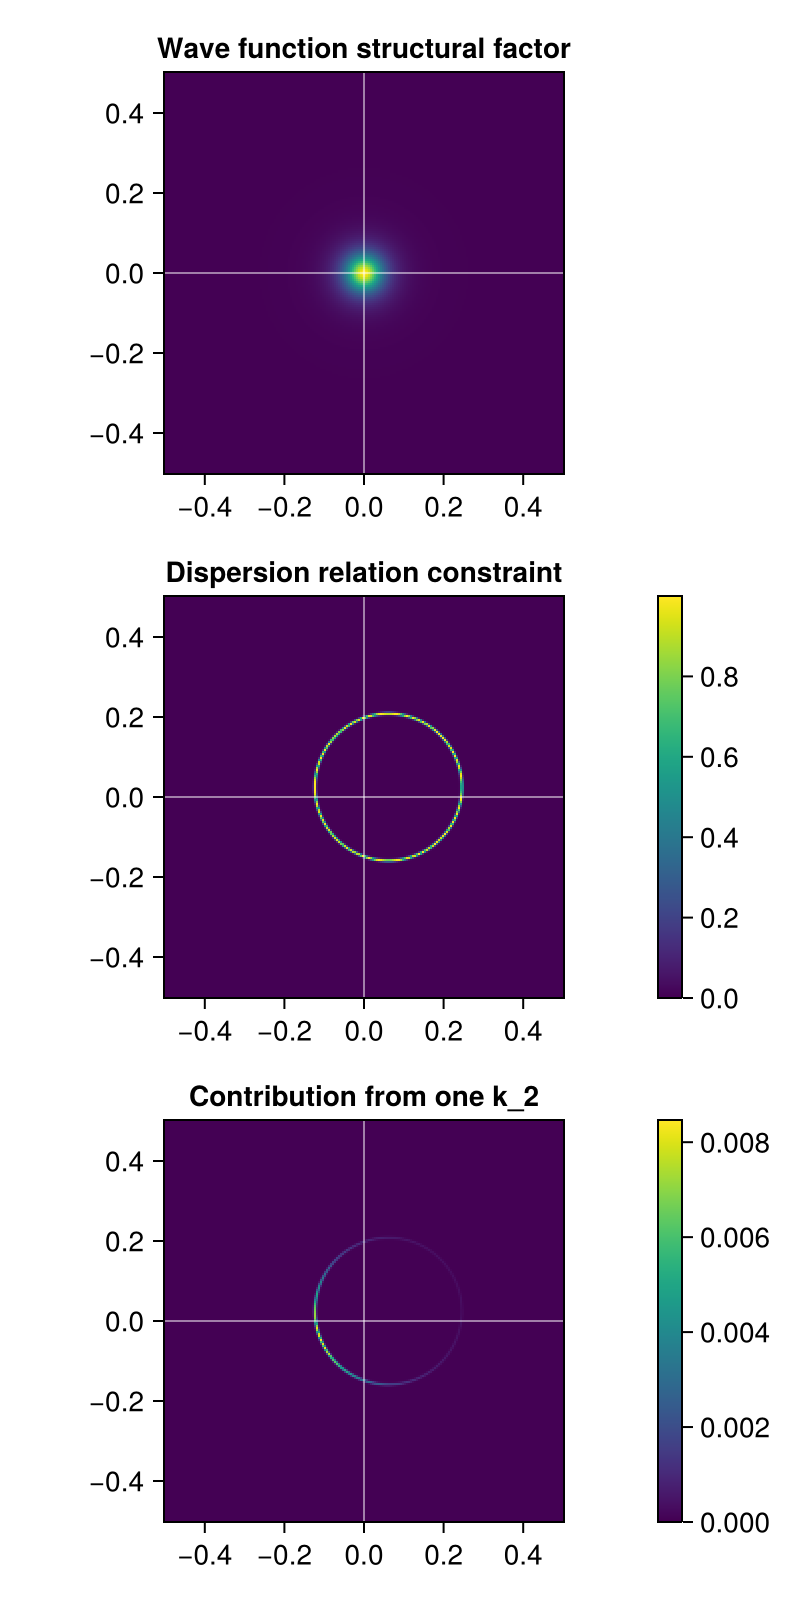
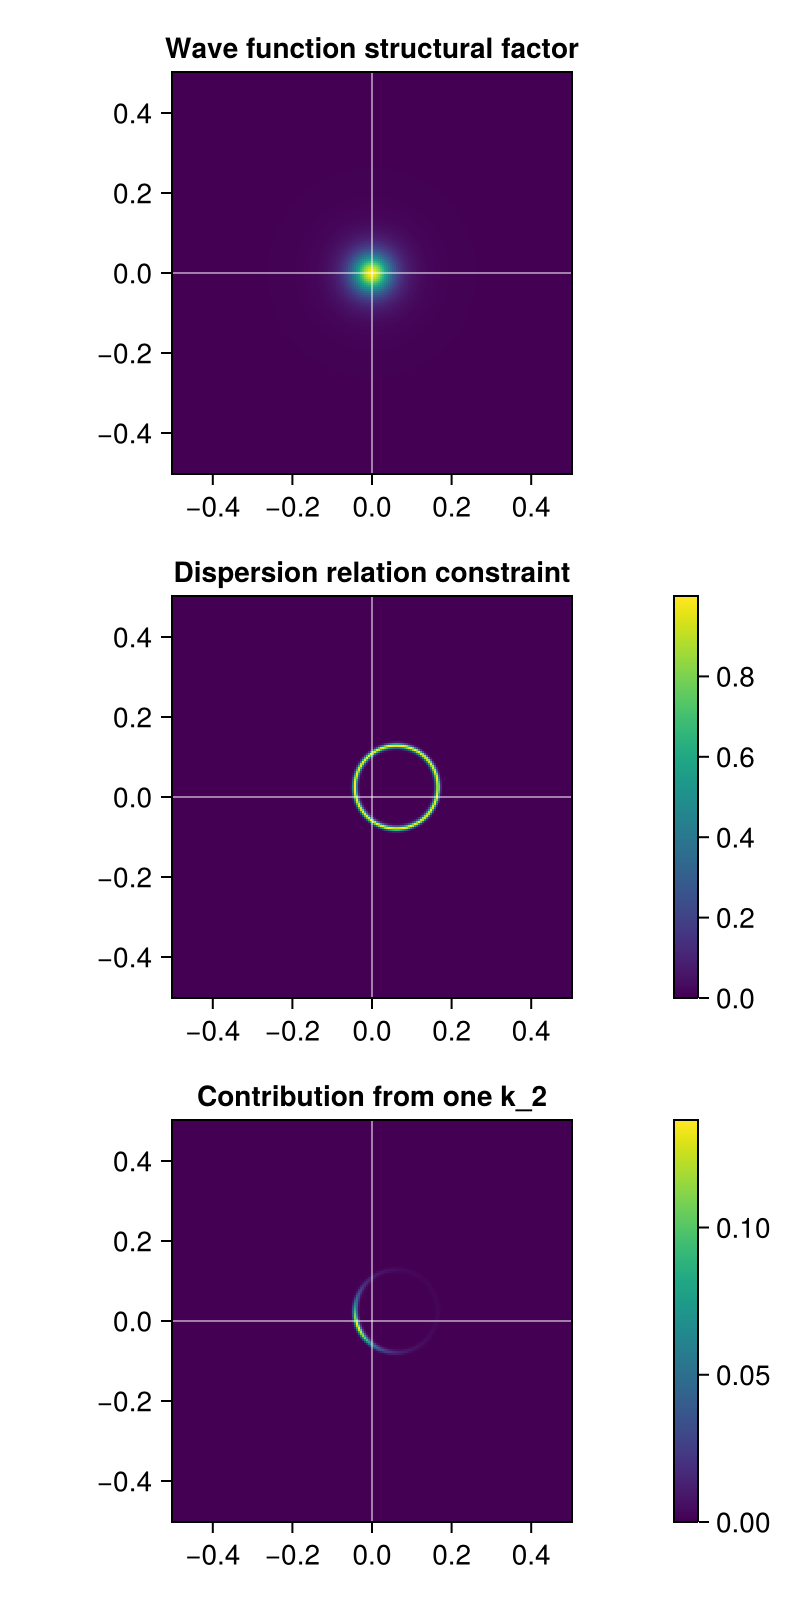
update band gap parameter

diff --git a/simplified/constants.md b/simplified/constants.md
@@ -1,0 +1,39 @@
+Constants used in the calculation
+===========
+
+Parameters about the quasiparticle band structure are from [PRL 111,216805 (2013)](https://journals.aps.org/prl/pdf/10.1103/PhysRevLett.111.216805).
+From Table I, we find:
+- the effective mass of the electron: 0.37 electron mass
+- the effective mass of the hole: 0.21 electron mass
+- band gap:  2.84 eV
+
+Parameters about trion binding are from [Nat. Comm.  2117 (2017)](https://www.nature.com/articles/s41467-017-02286-6).
+In Table 1, we find:
+- The fundamental band gap is 2.89 eV (slightly larger than the band gap above but it's ok)
+- The negative trion frequency is 2.08 eV
+- The positive trion frequency is 2.09 eV
+- The exciton frequency is 2.13 eV
+
+These parameters listed above are calculated without a substrate.
+But the parameters with substrate are not too different.
+There is probably a convergence issue:
+the lowest exciton energy reported in [PRL 111,216805 (2013)](https://journals.aps.org/prl/pdf/10.1103/PhysRevLett.111.216805)
+is 1.88 eV (see Table II).
+The largest k-grid used in [Nat. Comm.  2117 (2017)](https://www.nature.com/articles/s41467-017-02286-6) is 39 39 1 (see Supplementary Fig. 3);
+the largest k-grid used in [PRL 111,216805 (2013)](https://journals.aps.org/prl/pdf/10.1103/PhysRevLett.111.216805) is 72 72 1,
+so the latter is more reliable.
+
+Note that the binding energy is defined differently in different places.
+In [PRB 88,045318 (2013)](https://journals.aps.org/prb/pdf/10.1103/PhysRevB.88.045318),
+for example, we find that the binding energy is reported to be 26 meV (see Table 1).
+This data comes from [Nat. Mat. 12, pages207–211 (2013)](https://www.nature.com/articles/nmat3505),
+where the trion binding energy $E_{\text{A}^-}$ is defined in Eq. (1):
+$$
+\omega_{\text{A}} - \omega_{\text{A}^-} = E_{\text{A}^-} + E_{\text{F}}.
+$$
+You can see that the binding energy is just the difference
+between the exciton A mode and the trion A- mode,
+and we need to remove the Fermi energy. 
+
+The trion variational parameters are from [PRB 88,045318 (2013)](https://journals.aps.org/prb/pdf/10.1103/PhysRevB.88.045318).
+They are:  a = 10.3 Å and b = 25.2 Å.

diff --git a/simplified/README.md b/simplified/README.md
@@ -1,3 +1,4 @@
 - [Benchmark](benchmarks.md)
+- [Constants used in the calculation](constants.md)
 - [Analysis of the contribution of each $\vb{k}_1$ to the ARPES signature of a ehh trion](ehh-k1-contribution.md)
 - [Analysis of the contribution of each $\vb{k}_1$ and $\vb{k}_2$ to the ARPES signature of a eeh trion](eeh-k-contribution.md)
